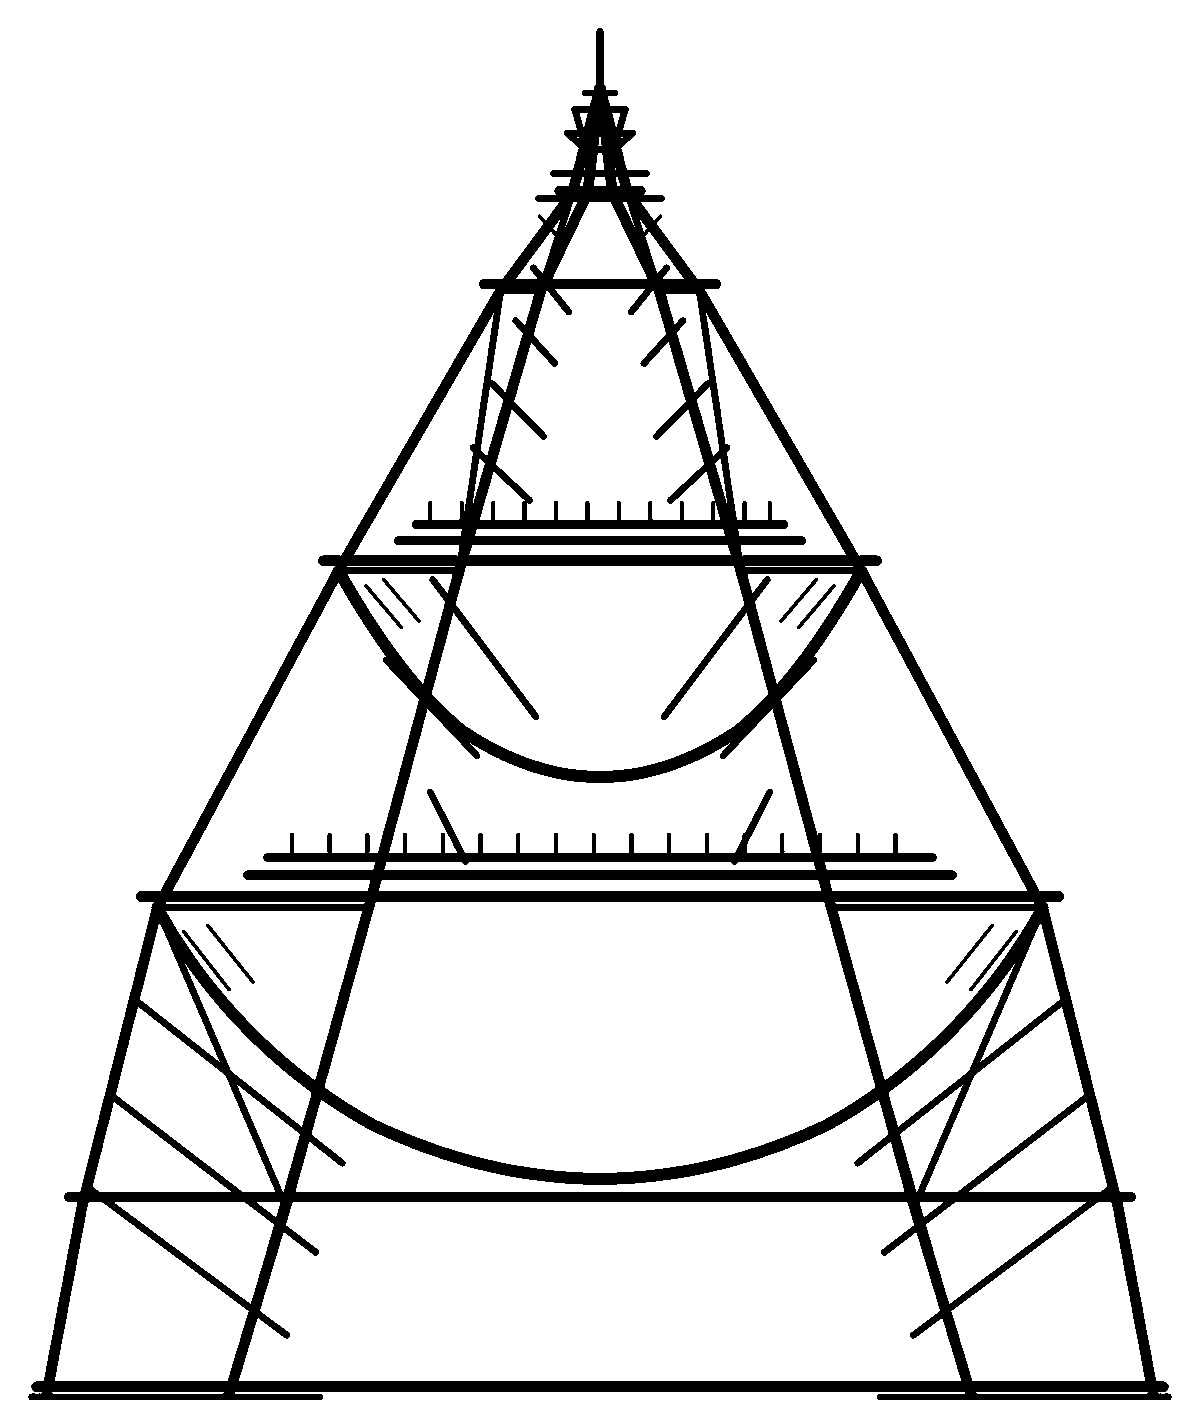
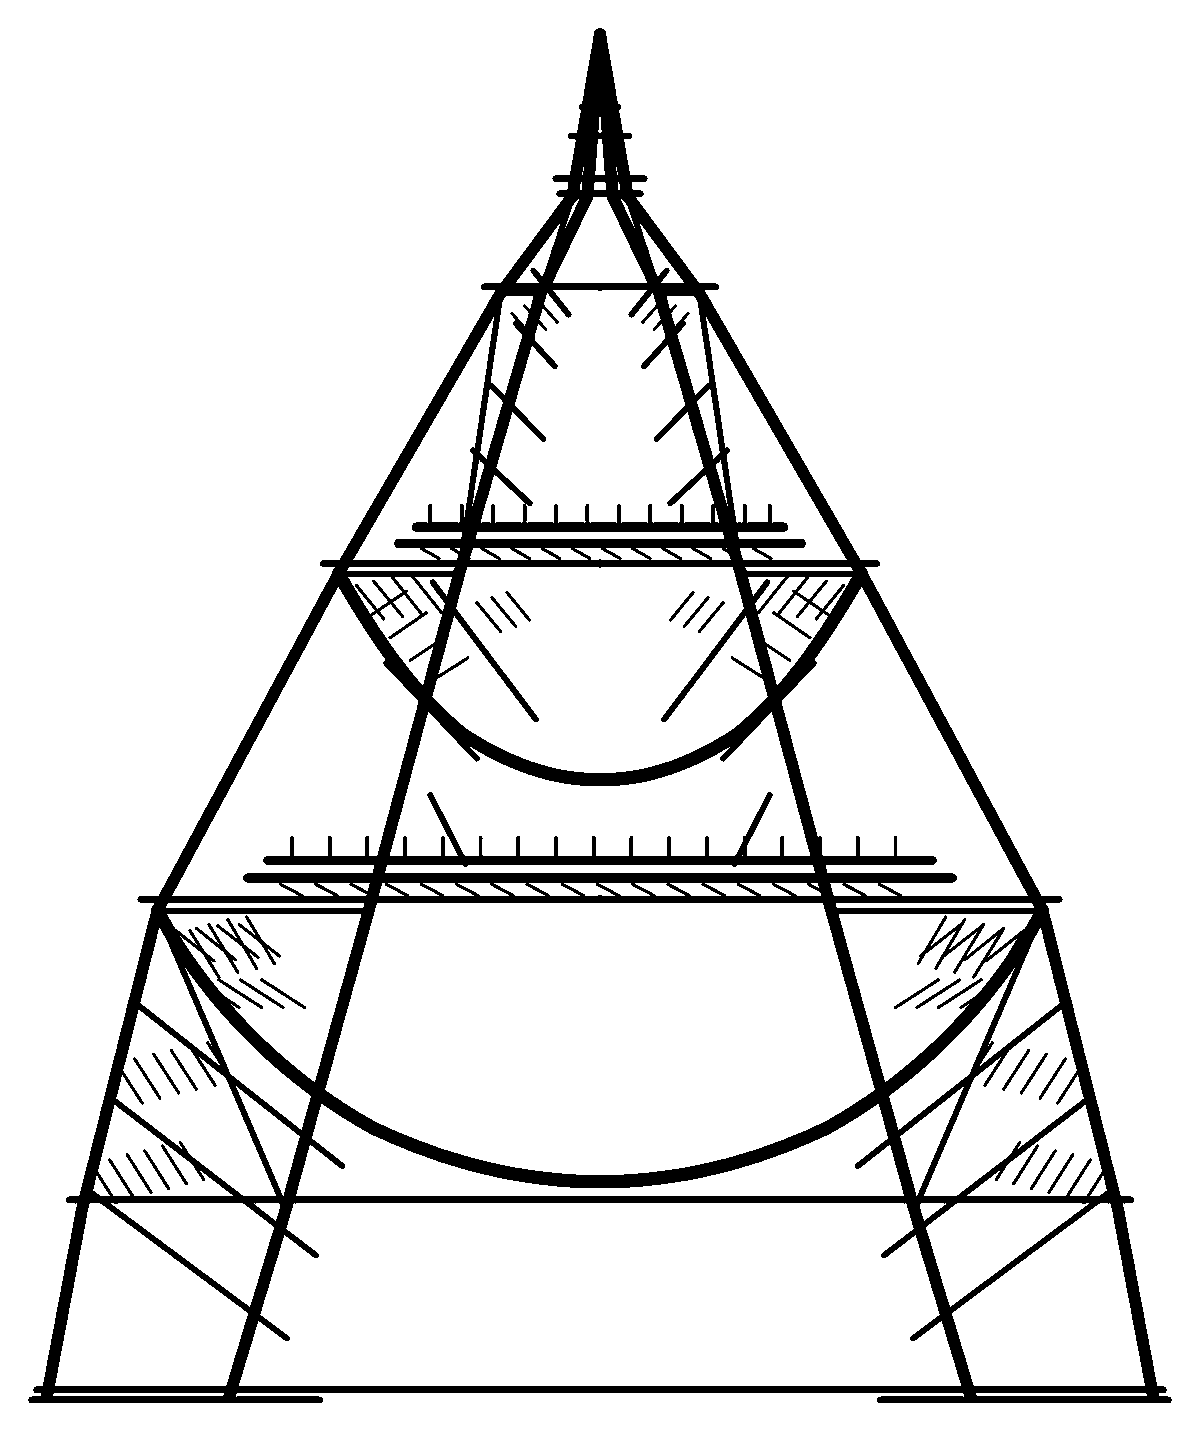
Refine provisional Eiffel artwork with restrained tonal hatching

diff --git a/subway_train_times/art/weekdays/LANDMARK-STUDIES.md b/subway_train_times/art/weekdays/LANDMARK-STUDIES.md
@@ -1,8 +1,8 @@
 # Provisional landmark studies
 
-Friday, Saturday and Sunday are provisional line illustrations selected for use while further aesthetic refinement is pending. They are not historic engravings or measured architectural/geographic records. Monday–Thursday remain unchanged.
+Friday is a single provisional tonal refinement candidate; Saturday and Sunday remain provisional line illustrations. These are not historic engravings or measured architectural/geographic records. Monday–Thursday remain unchanged.
 
-- **Eiffel Tower:** newly authored editable vector, dedicated CC0 1.0. Structural facts referenced from https://www.toureiffel.paris/en/the-monument/history (not an image source). License: https://creativecommons.org/publicdomain/zero/1.0/ . Raster matches the selected threshold-190 proof after fitting to the art region.
+- **Eiffel Tower:** newly authored editable vector with varied directional hatch and selective cross-hatching for iron-plane tone; dedicated CC0 1.0. Structural facts referenced from https://www.toureiffel.paris/en/the-monument/history (not an image source; the record describes four lattice-girder columns, regular connecting girders and retained base arches). License: https://creativecommons.org/publicdomain/zero/1.0/ . Raster: white background, cropped at grayscale <247, 2% white margin, Lanczos fit to 1200×1500, threshold 205 to grayscale 1-bit-like source, then production threshold >190 after slot resize. Authored interpretation, not a historic engraving or measured elevation. Verified through fixed-weather native BMP-route comparisons in empty, one-, two-, three-, four-reminder and overflow states; no layout/server changes.
 - **Space Needle:** newly authored adaptation after https://freesvg.org/1553181540 (FreeSVG/OpenClipart, CC0). Added deck glazing, rim, supports and hatching are an interpreted study, not original source linework or verified engineering detail. Grayscale raster fits to the region, then uses Pillow 1-bit dithering to retain the selected proof appearance.
 - **Mount Rainier:** newly authored interpretation informed by the Gustav Wilhelm Krollmann poster https://www.loc.gov/item/2010651155/ . LOC rights advisory: no known restrictions on publication, published without copyright notice; users remain responsible for assessing rights. Internal terrain contours are illustrative, not verified glacier geography. Full-resolution raster, tight crop and white margin preserve the selected threshold-170 proof; this is not Krollmann's original linework.
 
